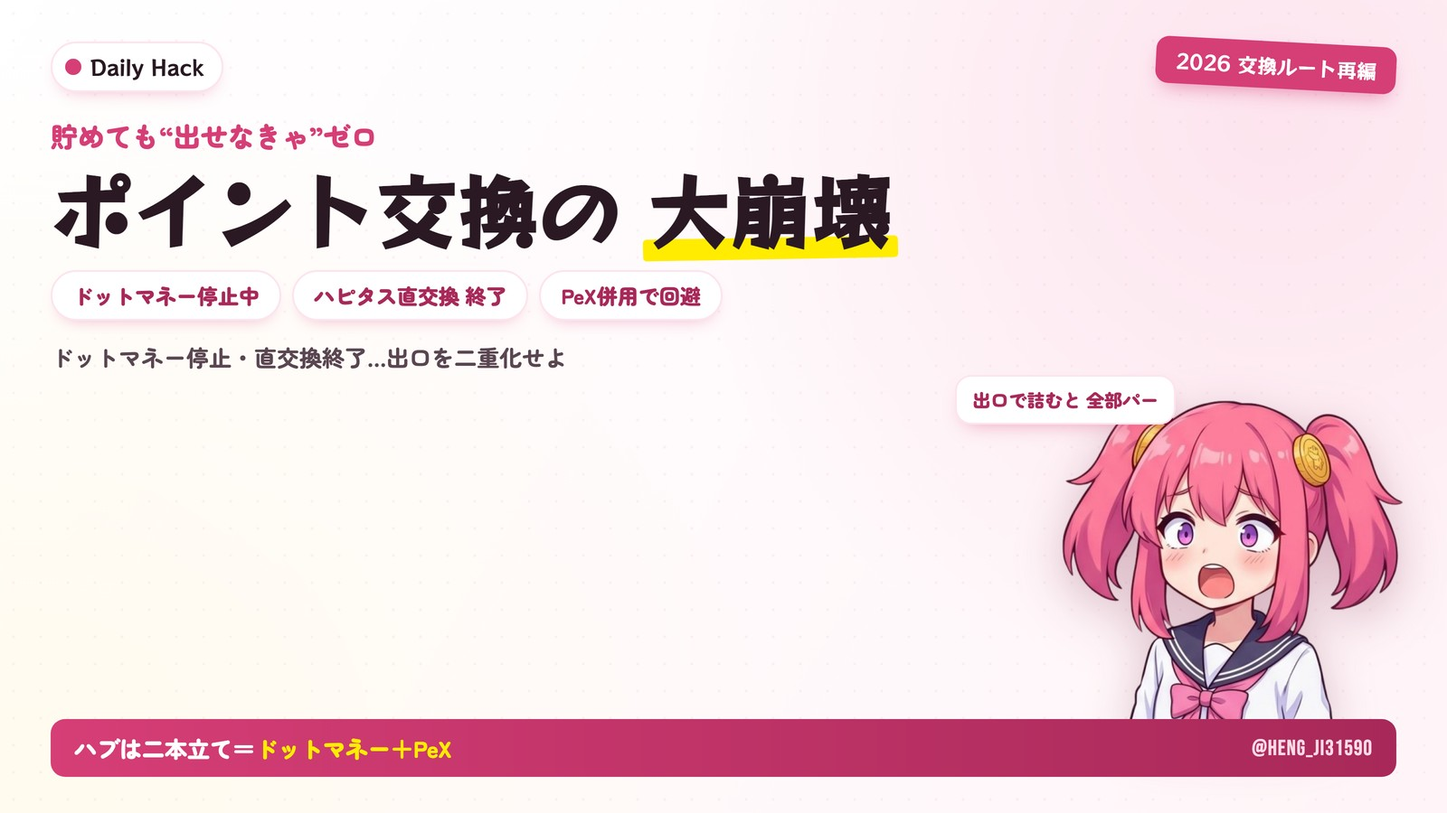
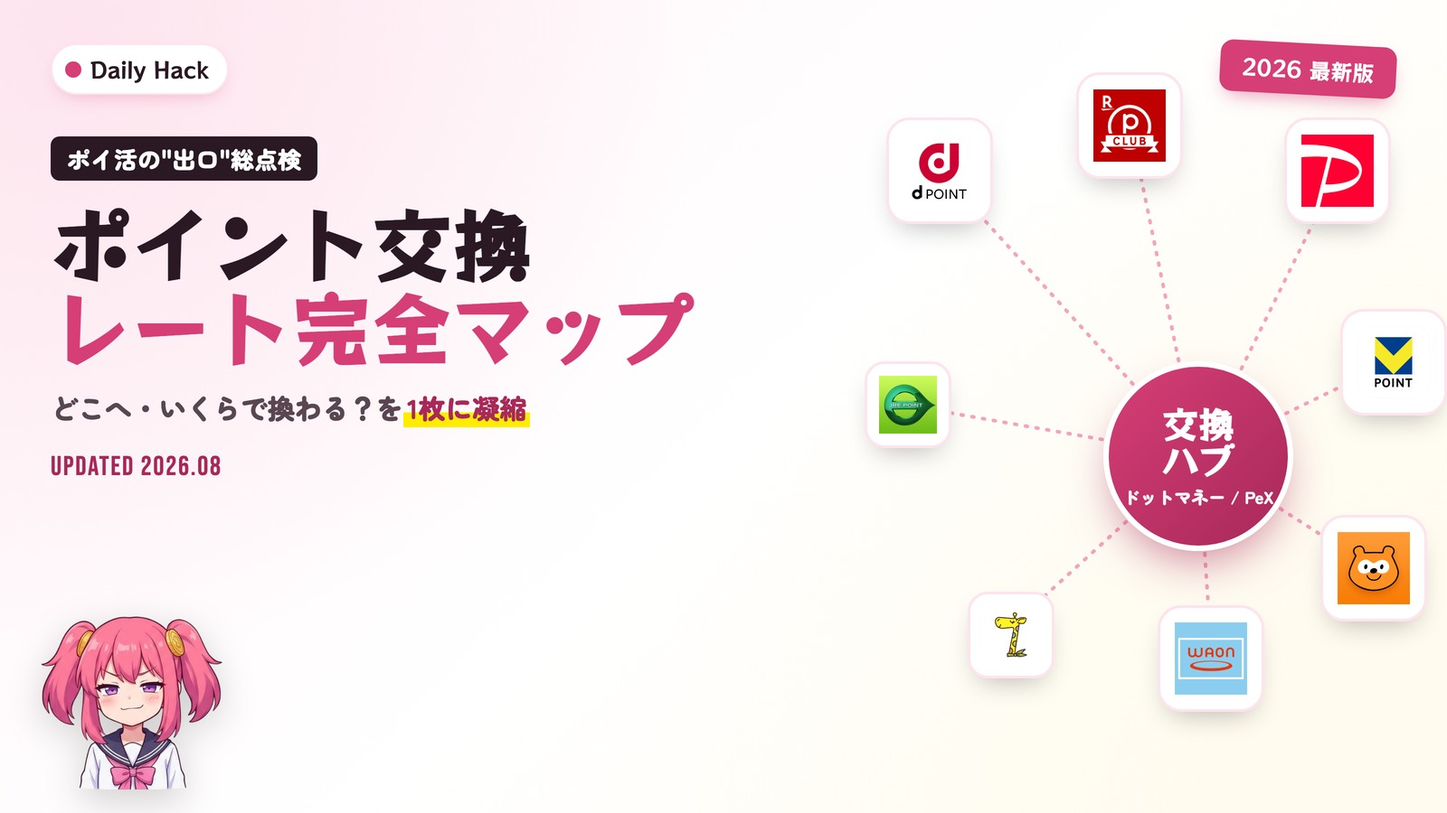
ポイント交換記事を大幅アップデート: レート表3種＋交換ルート図＋ロゴ活用アイキャッチ
- 新アイキャッチ: 主要ポイント実ロゴ8個を交換ハブ中心に放射配置(ネイティブ16:9)
- 新図(route-rate-map): ①貯める→ハブ→出口フロー ②マイル交換レート早見 ③2026年変更タイムライン
- レート表3種を追加: ハブ基準/共通ポイント→マイル/共通ポイント相互交換の可否
- 最新情報に更新: ドットマネー停止継続→2026/8/12再開目処・SMS認証新設、dポイント交換+15%CP等
- 全数値は各公式ベース(ANA/JAL/ドコモ/リクルート/PeX/Gポイント/ドットマネー)・出典明記
- 汎用HTML→画像レンダラ(render-html-image.mjs)を追加

diff --git a/src/content/posts/point-exchange-route-2026.md b/src/content/posts/point-exchange-route-2026.md
@@ -1,29 +1,36 @@
 ---
-title: "ポイント交換ルート大崩壊2026｜ドットマネー停止・直交換終了で“今使える最短ルート”はこう変わった"
-description: "ドットマネーが不正アクセスで停止中（2026年7月上旬復旧見込み）。ハピタス→ドットマネー直交換終了やJQみずほルート終了も重なり、ポイントの出口が2026年に一変した。交換難民にならないための『交換ハブ二本立て』と、今使える最短ルートをアタシが図解する。"
+title: "ポイント交換レート完全マップ2026｜主要ポイント×マイルの交換レートを表と図で総整理【8月最新】"
+description: "主要ポイント×マイルの交換レートを表と図で総整理。ハブの基準、dポイント→JAL50%・東急→ANA75%等のマイルレート、『楽天は他社交換不可』の壁まで。ドットマネーは停止中→8/12再開目処。2026年8月時点・出典つき。"
 publishDate: 2026-07-04
 category: ["howto", "comparisons"]
-tags: ["ポイ活", "ポイント交換", "ドットマネー", "PeX", "モッピー", "ハピタス", "Vポイント", "ポイントサイト"]
+tags: ["ポイ活", "ポイント交換", "交換レート", "ドットマネー", "PeX", "マイル", "dポイント", "ポイントサイト"]
 isPR: true
 draft: false
 featured: true
 relatedReferrals: ["moppy"]
 eyecatchUrl: "/images/point-exchange-route-2026/eyecatch.jpg"
-eyecatchAlt: "2026年に一変したポイント交換ルート — ドットマネー停止と直交換終了で最短ルートを再設計する図"
+eyecatchAlt: "主要ポイントのロゴを交換ハブ中心に配した、ポイント交換レート完全マップ2026のアイキャッチ"
 author: "hacker-ko"
 source_candidate_id: "C060"
 references:
-  - "https://www.itmedia.co.jp/news/articles/2606/17/news123.html"
-  - "https://d-money.jp/"
+  - "https://ameblo.jp/dotmoney/entry-12974161885.html"
+  - "https://www.ana.co.jp/ja/jp/shoppingandlife/point/tukau_rakuten/"
+  - "https://dpoint.docomo.ne.jp/article/2009_07.html"
+  - "https://point.recruit.co.jp/pontaweb/excpoint/pontajal/"
 ---
 
-「貯めたポイント、交換しようとしたら“メンテナンス中”で動かせない……」——今、そういう**交換難民**が大量発生してる。原因は、ポイ活の出口インフラ「**ドットマネー**」が不正アクセスで**全サービス停止中**（2026年6月8日〜、復旧は7月上旬見込み）だから。
+> 📌 **2026年8月2日 大幅更新**：交換レートを表＋図で総整理し直したわ。ドットマネーの復旧見込み（→**8月12日再開目処**）も最新に更新済み。
 
-しかもタチが悪いのは、これが単発事故じゃないってこと。2025年秋以降、**ポイントの“出口”がドミノ的に塞がれてきた**の。今日はこの「交換ルート大崩壊」を時系列で整理して、二度と難民にならないための**出口の組み方**を教えてあげる。貯めるのが上手い人ほど、出口で詰まると全部パーになるからね 😏
+「貯めたポイント、結局どこに・いくらで換わるの？」——ポイ活で一番わかりにくいのが、この**交換レート**なの。しかも各社バラバラで、改悪も頻繁。だから今日は、**主要ポイント×マイルの交換レートを1枚の図と表に総整理**してあげる。さらに、ポイ活の出口インフラ「ドットマネー」が今も停止中（→8/12再開目処）っていう**リアルタイムの事情**も踏まえて、"いま使える最短ルート"の考え方まで通しで解説するわ 😏
+
+<figure class="venn-figure">
+  <img src="/images/point-exchange-route-2026/route-rate-map.jpg" alt="ポイント交換ルート＆レートマップ：貯める(モッピー等)→中継ハブ(ドットマネー1マネー=1円/PeX10P=1円/Gポイント1G=1円)→出口(現金/共通ポイント/マイル)の基本フローと、dポイント→JAL50%・Ponta→JAL50%・楽天→ANA50%・Vポイント→ANA50%・東急→ANA75%のマイル交換レート、2026年の主な変更タイムライン" loading="lazy" />
+  <figcaption>ポイント交換ルート＆レートマップ（2026年8月時点・各公式ベース）。①貯める→ハブ→出口の基本フロー ②共通ポイント→マイルのレート早見 ③2026年の主な動き。※出典明記でのシェア・引用は歓迎です。</figcaption>
+</figure>
 
 <div class="hakkako-says">
   <div class="hakkako-mascot"><img src="/images/expr-09-arms-crossed.png" alt="Daily Hackマスコット" /></div>
-  <div class="hakkako-quote">結論から言うわ。<strong>交換ハブ（中継所）を1つに依存するな。</strong>「ドットマネー」と「PeX」の二本立てを両方使えるようにしておけば、片方が止まってももう片方で逃げられる。出口は“二重化”が正解よ。</div>
+  <div class="hakkako-quote">先に核心を3つ。<strong>①ハブ(中継所)は「1ポイント≒1円」系＝ドットマネー/PeX/Gポイント。1本依存は危険で二本立てが鉄則</strong>。<strong>②マイルは"率"が命——dポイント→JALやVポイント→ANAは50%、東急→ANAは75%と差が大きい</strong>。<strong>③共通ポイント同士は意外と直接交換できない（楽天は他社へ出せない、dポイント⇔Pontaも不可）</strong>。この3点を押さえれば、もう交換で損しないわ。</div>
 </div>
 
 <aside class="related-block">
@@ -32,13 +39,6 @@ references:
     <p class="related-block-title">あわせて読みたい</p>
   </div>
   <ul class="related-block-list">
-    <li><a href="/posts/pointsite-comparison-2026/">
-      <span class="related-block-thumb"><img src="/images/eyecatch/comparisons.jpg" alt="" loading="lazy" /></span>
-      <span class="related-block-body">
-        <span class="related-block-cat">比較</span>
-        <span class="related-block-name">ポイントサイト徹底比較｜モッピー・ハピタス他</span>
-      </span>
-    </a></li>
     <li><a href="/posts/point-service-complete-guide-2026/">
       <span class="related-block-thumb"><img src="/images/eyecatch/comparisons.jpg" alt="" loading="lazy" /></span>
       <span class="related-block-body">
@@ -53,73 +53,31 @@ references:
         <span class="related-block-name">ポイント改悪・改良 年表 2024-2026</span>
       </span>
     </a></li>
+    <li><a href="/posts/rakuten-marathon-guide-2026/">
+      <span class="related-block-thumb"><img src="/images/eyecatch/comparisons.jpg" alt="" loading="lazy" /></span>
+      <span class="related-block-body">
+        <span class="related-block-cat">攻略</span>
+        <span class="related-block-name">楽天お買い物マラソン 完全攻略 2026</span>
+      </span>
+    </a></li>
   </ul>
 </aside>
 
-## 結論: 2025〜2026で「ポイントの出口」はこう崩れた
+## ① 交換ハブの基準レート（1ポイント≒1円系）
 
-まず何が起きたかを時系列で。**貯める話ばかりで、出口の変化を追ってない人が一番危ない。**
+ポイントサイトで貯めたポイントは、たいてい**中継ハブ**を経由して現金・共通ポイント・マイルへ換える。まずはこのハブの「基準」を押さえるのが土台。
 
-| 時期 | 出来事 | 影響 |
-|---|---|---|
-| 2025年10月末 | ハピタス → ドットマネー **直接交換が終了** | 人気の王道ルートが1本消滅 |
-| 2026年1月21日 | JQ CARD 経由のみずほルートが**新規受付終了** | 陸マイラー系の中継が細る |
-| 2026年6月8日〜 | ドットマネーが**不正アクセスで全サービス停止** | 交換ハブそのものがダウン＝出口総詰まり |
-| 2026年7月上旬（見込み） | ドットマネー復旧予定 | ※保有ポイントは保全・消失しないと公式明言 |
+| ハブ | 基準レート | 主な交換先 | 手数料の目安 | 状態(2026/8/2) |
+|---|---|---|---|---|
+| **ドットマネー** | 1マネー＝**1円** | 現金(銀行)・ギフト・共通ポイント・マイル | 現金交換は**手数料無料**が中心（最低1,000マネー〜／主要行） | ⚠**停止中→8/12再開目処**・SMS認証新設 |
+| **PeX** | 10ポイント＝**1円** | 現金・電子マネー・共通ポイント・マイル | 交換先ごと（例:楽天銀行/住信SBI 50円/回）。無料先もあり | ✅ 稼働中 |
+| **Gポイント** | 1G＝**1円** | 現金・共通ポイント・マイル・BIGLOBE充当 | 現金は約10%（対象サービス申込で5%還元） | ✅ 稼働中 |
 
-> ドットマネーは「交換中を含むポイントは社内で保全され消失しない／不正利用の被害は確認されていない」と公表（出典: <a href="https://www.itmedia.co.jp/news/articles/2606/17/news123.html" target="_blank" rel="noopener nofollow">ITmedia NEWS</a>、<a href="https://d-money.jp/" target="_blank" rel="noopener nofollow">ドットマネー公式</a>）。**慌てて何かする必要はない。落ち着いて復旧を待ちつつ、出口を組み直すのが正解。**
+<p class="source-note">出典: <a href="https://ameblo.jp/dotmoney/entry-12974161885.html" target="_blank" rel="noopener nofollow">ドットマネー公式スタッフブログ</a>／<a href="https://pex.jp/introduce" target="_blank" rel="noopener nofollow">PeX公式</a>／<a href="https://www.gpoint.co.jp/pen/charge/" target="_blank" rel="noopener nofollow">Gポイント公式</a>。手数料・最低交換額は交換先やキャンペーンで変動するため、交換直前に各公式で最新をご確認ください。</p>
 
-<div class="section-with-mascot">
-  <div class="mascot-wrap"><img src="/images/expr-06-shock.png" alt="" /></div>
-  <h2>いま「ドットマネー停止中」にやるべきこと・やってはいけないこと</h2>
-</div>
-
-停止のニュースで焦って変な行動を取る人が一番損する。いま取るべき動きはこれだけ。
-
-- ✅ **待てるポイントは、素直に復旧を待つ**。保有分は保全されると公式が明言してる。有効期限が停止中に来るコードは再付与対応の方針。
-- ✅ **急ぎで現金化したいぶんは、ドットマネーを経由しない別ルートに切り替える**（下で解説）。
-- ✅ この機会に **PeX の口座を用意**して、ハブを二本立てにする。
-- ❌ **同じIDの使い回しパスワードを放置しない**。今回は他社流出リスト型の不正アクセスとみられる事案。ポイント系サービスのパスワードは今すぐ個別化しなさい。
-- ❌ 「復旧記念」「補償手続き」を騙る**フィッシングに注意**。公式ドメイン以外は踏まない。
-
-<div class="section-with-mascot">
-  <div class="mascot-wrap"><img src="/images/expr-05-smug.png" alt="" /></div>
-  <h2>出口の二重化: 「ドットマネー」＋「PeX」を両方持て</h2>
-</div>
-
-ポイントサイトで貯めたポイントは、たいてい**中継ハブ（ドットマネー or PeX）を経由**して、現金・共通ポイント・電子マネーへ交換する。ここが1本だと、今回みたいにハブが落ちた瞬間に**全部詰む**。だから両方を用意しておくのが鉄則。
-
-<div class="compare-cards">
-  <article class="compare-card recommended">
-    <span class="compare-card-mascot"><img src="/images/expr-05-smug.png" alt="" /></span>
-    <h3>ドットマネー（Ameba系）</h3>
-    <p class="tagline">交換先が広く手数料無料が多い王道ハブ。今は停止中だが復旧後も主力。</p>
-    <dl>
-      <dt>強み</dt><dd>銀行・共通ポイント・ギフト券に手数料無料で交換しやすい</dd>
-      <dt>弱み</dt><dd>今回のように止まると出口が一気に塞がる</dd>
-      <dt>使い方</dt><dd>復旧後の“メイン出口”。ただし依存しすぎない</dd>
-    </dl>
-  </article>
-  <article class="compare-card">
-    <h3>PeX</h3>
-    <p class="tagline">老舗の交換ハブ。ドットマネーが使えない今の“避難先”。</p>
-    <dl>
-      <dt>強み</dt><dd>対応サイト・交換先が豊富。ドットマネー停止の代替になる</dd>
-      <dt>弱み</dt><dd>一部交換で手数料/レートに注意（都度確認）</dd>
-      <dt>使い方</dt><dd>“予備の出口”として口座を先に作っておく</dd>
-    </dl>
-  </article>
-</div>
-
-ポイントサイト側（モッピー・ハピタス等）は、**この2つのハブどちらにも送れる**ものが多い。だから「貯める側を1〜2サイト」「出すハブを2つ」持っておけば、片方が事故っても資産が凍結されない。
-
-<div class="ref-cta">
-<img src="/images/point-exchange-route-2026/logos/moppy.png" alt="モッピー" loading="lazy">
-<div class="rc-body">
-<h4>基軸ポイントサイトに「モッピー」紹介リンク</h4>
-<p>会員1,400万人超の最大手。銀行・共通ポイント・ギフト券への交換先が広く、<strong>ドットマネー/PeX どちらのハブにも流しやすい</strong>のが強み。出口を二重化する“貯める側”の土台に。<strong>下の紹介リンク経由の新規登録＋条件達成で、“あなた”にも入会ボーナスポイント</strong>が付きます。</p>
-</div>
-<a class="rc-btn" href="https://pc.moppy.jp/entry/invite.php?invite=kMwuA18a" target="_blank" rel="sponsored noopener nofollow">紹介リンクで無料登録 →</a>
+<div class="hakkako-says">
+  <div class="hakkako-mascot"><img src="/images/expr-05-smug.png" alt="Daily Hackマスコット" /></div>
+  <div class="hakkako-quote">ハブは全部「1ポイント≒1円」だけど、<strong>PeXだけ"10ポイント=1円"表記</strong>だから桁を勘違いしないで。そして最大手のドットマネーが今止まってる（→8/12再開目処）のが今回の肝。<strong>ハブは1本に頼らず、ドットマネー＋PeX(orGポイント)の二本立て</strong>にしておけば、片方が事故っても出口を確保できるわ。</div>
 </div>
 
 <!-- a8-banners auto-inserted by banner-fill (slot1-after-1st-h2) -->
@@ -127,52 +85,125 @@ references:
 <div class="a8-banner a8-banner--rectangle"><a href="https://px.a8.net/svt/ejp?a8mat=4B3Y38+33XJA2+1LP8+CALN5" target="_blank" rel="sponsored noopener nofollow"><img src="/images/banners/hapitas-300x250.jpg" alt="高還元率ポイントサイト【ハピタス】　無料会員登録プロモーション" width="300" height="250" loading="lazy"></a></div>
 </div>
 
-## 目的別・今使える最短ルートの考え方
+## ② 共通ポイント → マイルの交換レート
 
-「結局どこに出すのが早い？」を目的別に。**具体レートは改定が多いので、交換直前に必ず各サービスで最新を確認**すること（ここでは“考え方”を置く）。
+陸マイラーが一番気にするのがここ。**同じ1ポイントでも、マイルへの「率」は交換先で大きく違う**。図②のバーの通り、現状の主力ルートを表にするとこう。
 
-- **現金がほしい** → ポイントサイト → ハブ（ドットマネー復旧後 or PeX）→ 銀行口座。振込手数料の有無で実質価値が変わるので、手数料無料の交換先を選ぶ。
-- **共通ポイントに寄せたい（Vポイント/dポイント/PayPay等）** → 各サイトから**直接交換できる先**があるなら、ハブを経由せず直行が一番早くて事故りにくい。モッピー等はdポイント・Vポイント等へ直接交換できる導線がある。
-- **マイルに寄せたい（陸マイラー）** → 中継ルートは改悪・終了が特に激しい領域。**「今その月に開いているルート」を必ず最新情報で確認**してから動く。1本のルートに大量ポイントを貯め込まない（塞がれると詰む）。
+| From → マイル | レート | 交換単位・条件 | 確度 |
+|---|---|---|---|
+| **dポイント → JALマイル** | 1,000P → 500マイル（**50%**） | 1,000P単位・月40,000P上限。増量CPで最大55%等 | 高 |
+| **Ponta → JALマイル** | 2P → 1マイル（**50%**） | 2P単位・JMB×Ponta会員登録が必須 | 高 |
+| **楽天ポイント → ANAマイル** | 2P → 1マイル（**50%**） | 楽天**通常**ポイントのみ（期間限定は不可） | 高 |
+| **Vポイント → ANAマイル** | 500P → 250マイル（**50%**） | 三井住友(ANA)カード会員は最大60%。※基本レートは各公式で要確認 | 中 |
+| **東急ポイント → ANAマイル** | 1,000pt → 750マイル（**75%**） | 対象の東急カード保有が条件 | 中 |
+| （逆）JALマイル → dポイント | 10,000マイル → 10,000P | 10,000マイル単位・年20,000マイル上限 | 高 |
+
+<p class="source-note">出典: <a href="https://www.ana.co.jp/ja/jp/shoppingandlife/point/tukau_rakuten/" target="_blank" rel="noopener nofollow">ANA公式(楽天ポイント→ANAマイル)</a>／<a href="https://dpoint.docomo.ne.jp/article/2009_07.html" target="_blank" rel="noopener nofollow">ドコモ公式(dポイント×JAL)</a>／<a href="https://point.recruit.co.jp/pontaweb/excpoint/pontajal/" target="_blank" rel="noopener nofollow">Ponta公式(→JALマイル)</a>。Vポイント→ANA・東急→ANAは条件つき。マイル交換は改定・増量が多いので交換直前に各公式で確認を。</p>
 
 <div class="hakkako-says">
-  <div class="hakkako-mascot"><img src="/images/expr-01-wave.png" alt="Daily Hackマスコット" /></div>
-  <div class="hakkako-quote">大事なのは「貯めたら、こまめに出す」こと。<strong>ポイントは“持ってる状態”が一番リスク高い</strong>の。改悪・終了・今回みたいな停止——出口はいつ塞がれてもおかしくない。ある程度貯まったら、寝かせずに現金や使う予定のポイントに換えておきなさい。</div>
+  <div class="hakkako-mascot"><img src="/images/expr-04-cheer.png" alt="Daily Hackマスコット" /></div>
+  <div class="hakkako-quote">ポイントは大半が「1P=1円」だけど、<strong>マイルにすると1P=2円以上の価値になることもある</strong>（特典航空券の使い方次第）。だから飛行機に乗る人はマイルが有力な出口。ただし<strong>かつての"メトロポイント黄金ルート(ソラチカ)"や旧ANA東急ルートは2022年3月で終了</strong>して、高レートの裏技はかなり減った。今は上の正攻法ルートを、<strong>増量キャンペーンのタイミングで使うのが賢い</strong>のよ。</div>
 </div>
+
+## ③ 共通ポイント同士は「意外と直接交換できない」
+
+「dポイントをPontaに移したい」みたいなの、実はできないことが多いの。ここが最大の落とし穴。
+
+| 組み合わせ | 直接交換 | メモ |
+|---|---|---|
+| dポイント ⇔ Ponta | ❌ 不可 | 相互交換は2020年9月末で終了。以後は間接ルートのみ |
+| 楽天ポイント → 他社共通ポイント | ❌ 不可 | 楽天の出口はマイル/楽天キャッシュ等に限定（他社へは出せない） |
+| Vポイント / Ponta / dポイント の三者相互 | ❌ 原則不可 | マイルや他社経由の間接ルートが必要 |
+| 各共通ポイント → 現金 | ⚠ ハブ経由 | ポイントサイト→ハブ(ドットマネー/PeX)→銀行、が基本 |
+
+<p class="source-note">出典: <a href="https://www.ana.co.jp/ja/jp/shoppingandlife/point/tukau_rakuten/" target="_blank" rel="noopener nofollow">ANA公式(楽天ポイントの扱い)</a>ほか。WAON POINT・nanaco・JRE POINT等は各経済圏でほぼクローズド設計で、共通ポイント同士の直接交換は限定的（各公式で要確認）。</p>
+
+<div class="hakkako-says">
+  <div class="hakkako-mascot"><img src="/images/expr-06-shock.png" alt="Daily Hackマスコット" /></div>
+  <div class="hakkako-quote">つまり<strong>「貯める前に、出口を決めておく」</strong>のが正解。特に楽天ポイントは他社へ移せないから、楽天で貯めるなら楽天市場・楽天ペイ・楽天キャッシュで使い切る前提。dポイントとPontaを行き来させたい人は、そもそも<strong>片方に寄せて貯める</strong>のが事故らないコツよ。</div>
+</div>
+
+## ④ いま「ドットマネー停止中」に何をすべき？
+
+2026年6月8日の不正アクセスで全停止したドットマネーは、**2026年8月2日時点でまだ停止中**。公式は**8月12日(水)を目処に順次再開**予定で、再開時に**SMS認証を新設**するとしてる。
+
+- ✅ **待てるポイントは素直に復旧を待つ**。交換途中のマネーは口座に返金され再申請可、停止中に失効したぶんも**同額を再付与**すると公式が明言（不正利用は確認されず）。
+- ✅ **急ぎで現金化したいぶんは、ドットマネーを経由しない別ルート**（PeX / Gポイント）に切り替える。
+- ✅ この機会に **PeX か Gポイントの口座を用意**して、ハブを二本立てにしておく。
+- ❌ 使い回しパスワードを放置しない。**ポイント系サービスのパスワードは今すぐ個別化**（今回は他社流出リスト型とみられる事案）。
+- ❌ 「再開記念」「補償手続き」を騙る**フィッシングに注意**。公式ドメイン以外は踏まない。
+
+<p class="source-note">出典: <a href="https://ameblo.jp/dotmoney/entry-12974161885.html" target="_blank" rel="noopener nofollow">ドットマネー公式スタッフブログ（再開スケジュール）</a>／<a href="https://www.itmedia.co.jp/news/articles/2606/17/news123.html" target="_blank" rel="noopener nofollow">ITmedia NEWS</a>。再開日は「目処」のため、8/12前後に公式で最終確認を。</p>
 
 <!-- a8-banners auto-inserted by banner-fill (slot2-middle) -->
 <div class="affiliate-block">
 <div class="a8-banner a8-banner--rectangle"><a href="https://px.a8.net/svt/ejp?a8mat=4B3Y38+N7Y56+3ZZC+HY069" target="_blank" rel="sponsored noopener nofollow"><img src="/images/banners/warau-300x250.jpg" alt="ポイ活ならワラウ【ワラウ】（広告利用ボーナスクリア）" width="300" height="250" loading="lazy"></a></div>
 </div>
 
+## ⑤ 2026年、交換ルートで起きた「主な動き」
+
+出口インフラが立て続けに揺れた1年。**貯める技術より、出口を切らさない設計**が大事になった年よ（図③も参照）。
+
+| 時期 | 出来事 | 区分 |
+|---|---|---|
+| 2025年10月末 | ハピタス → ドットマネー **直接交換が終了** | 終了 |
+| 2026年1月21日 | みずほ(JQ)ルート（ANA向け）**新規受付終了** | 縮小 |
+| 2026年6月8日〜 | ドットマネー **不正アクセスで全サービス停止** | 停止 |
+| 2026年7月1日 | モッピー → JALマイル交換が「30分以内」に高速化 | 改善 |
+| 2026年7月7日 | モッピーの IOST(暗号資産)交換 終了 | 終了 |
+| 2026年7月28日 | dポイントマーケット サービス終了（サポートは8/31まで） | 終了 |
+| 2026年8月1日 | エポスカード：電子マネー/コード決済チャージの付与(0.5%)終了 | 改悪 |
+| 2026年8月1日〜31日 | **dポイント交換で最大15%増量**キャンペーン | 増量 |
+| 2026年8月12日(目処) | ドットマネー再開へ・SMS認証を新設 | 再開 |
+
+<p class="source-note">出典: 各社公式・<a href="https://www.itmedia.co.jp/news/articles/2606/17/news123.html" target="_blank" rel="noopener nofollow">ITmedia</a>ほか。増量キャンペーンは期間・上限が変わるため参加前に各公式で確認を。<a href="/posts/point-kaiaku-timeline-2026/">ポイント改悪・改良 年表 2024-2026</a> もあわせてどうぞ。</p>
+
+## ⑥ 出口の二重化と「基軸サイト」の作り方
+
+貯める側を1〜2サイト、出すハブを2つ——これが事故らない黄金比。ポイントサイト（モッピー・ハピタス等）は**ドットマネー/PeX/Gポイントのどれにも送れる**ものが多いから、ハブを二本立てにしておけば片方が落ちても資産が凍結されない。
+
+<p class="ref-cta-lead">出口を二重化する「貯める側」の土台に、交換先が広く各ハブへ流しやすい最大手を1つ持っておくと安定します。</p>
+
+<div class="ref-cta">
+<img src="/images/point-exchange-route-2026/logos/moppy.png" alt="モッピー" loading="lazy">
+<div class="rc-body">
+<h4>基軸ポイントサイトに「モッピー」紹介リンク</h4>
+<p>会員1,400万人超の最大手。銀行・共通ポイント・ギフト券・マイルへの交換先が広く、<strong>ドットマネー/PeX/Gポイントどのハブにも流しやすい</strong>のが強み。2026年7月からは<strong>JALマイル交換が「30分以内」に高速化</strong>。<strong>下の紹介リンク経由の新規登録＋条件達成で、"あなた"にも入会ボーナスポイント</strong>が付きます（被紹介者特典）。出口を二重化する土台に無料で作っておくのが正解。</p>
+</div>
+<a class="rc-btn" href="https://pc.moppy.jp/entry/invite.php?invite=kMwuA18a" target="_blank" rel="sponsored noopener nofollow">紹介リンクで無料登録 →</a>
+</div>
+
 ## ❓ よくある質問（FAQ）
 
+**Q. 結局いちばんおトクな出口は？**
+A. **飛行機に乗るならマイル**（1P=2円以上の価値になり得る）。乗らないなら**現金 or 使う予定の共通ポイント**が無難。マイルは率が命なので、dポイント→JAL(50%)や東急→ANA(75%)など**高レートのルートを増量キャンペーン時に**使うのがコツ。
+
 **Q. ドットマネーに交換申請中だったポイントは消える？**
-A. 公式は「交換中を含め社内で保全され、消失しない」と明言してる。停止中に期限が来るコードも再付与の方針。**慌てず復旧を待って大丈夫。**
+A. 公式は「交換途中のマネーは口座に返金・再申請可、停止中に失効したぶんも同額を再付与」と明言。**慌てず8/12目処の再開を待って大丈夫。**
 
-**Q. なんで直接交換じゃなく“ハブ”を経由するの？**
-A. 各ポイントサイトが全交換先と個別提携するのは大変だから、ドットマネー/PeXのような中継所にまとめて、そこから多数の交換先へ配る仕組みになってる。効率的な反面、**ハブが落ちると連鎖で止まる**弱点がある。
+**Q. 楽天ポイントを他のポイントに移せる？**
+A. **他社の共通ポイントへは移せない**。楽天の出口はANAマイル(2P=1マイル・通常ポイントのみ)や楽天キャッシュ、楽天市場での利用に限られる。楽天は「貯めたら楽天圏で使う」が基本。
 
-**Q. 今から始めるなら、どのサイトとハブを持てばいい？**
-A. 貯める側は最大手のモッピーを軸に1〜2サイト。出すハブは**ドットマネー＋PeXの二本立て**。これで片方が事故っても出口を確保できる。
+**Q. dポイントとPontaは交換できる？**
+A. **直接の相互交換は不可**（2020年9月末で終了）。どうしても寄せたいなら間接ルートになるが手間とロスが大きいので、**最初からどちらかに寄せて貯める**のが正解。
 
 **Q. 交換レートや手数料は記事の通り？**
-A. ポイント交換は改定が非常に多い領域。**必ず交換する直前に各公式で最新のレート・手数料・所要日数を確認**して。この記事は“ルートの組み方”の指針として使ってね。
+A. ポイント交換は改定・増量が非常に多い領域。数値は2026年8月時点の各公式ベースだけど、**必ず交換する直前に各公式で最新のレート・手数料・所要日数を確認**して。この記事は"全体マップ"として使ってね。
 
 <!-- a8-banners auto-inserted by banner-fill (slot3-before-tail) -->
 <div class="affiliate-block">
 <div class="a8-banner a8-banner--rectangle"><a href="https://px.a8.net/svt/ejp?a8mat=4B43JB+C507KQ+389A+67RK1" target="_blank" rel="sponsored noopener nofollow"><img src="/images/banners/chobirich-300x250.jpg" alt="ちょびリッチ" width="300" height="250" loading="lazy"></a></div>
 </div>
 
-## まとめ — 「出口を二重化して、こまめに出す」
+## まとめ — 「レートを知って、出口を二重化して、こまめに出す」
 
-2026年のポイント交換は、**出口インフラが立て続けに揺れた年**。ハピタス直交換の終了、みずほルート終了、そしてドットマネーの停止。貯める技術より、**出口を切らさない設計**の方がよっぽど大事になった。
+- **ハブは1ポイント≒1円**（ドットマネー/PeX/Gポイント）。**二本立て**で片方が落ちても逃げられる状態に
+- **マイルは率が命**：dポイント→JAL・Vポイント→ANAは50%、東急→ANAは75%。**増量CP時に交換**
+- **共通ポイント同士は直接交換できないことが多い**（楽天は他社不可・dポイント⇔Ponta不可）＝**貯める前に出口を決める**
+- ドットマネー停止分は**保全されるので慌てない**。**8/12再開目処**、この隙に出口を組み直す
 
-- **ハブは二本立て**（ドットマネー＋PeX）。片方が落ちても逃げられる状態に
-- **直接交換できる先は直行**（Vポイント/dポイント等）でハブ依存を減らす
-- **貯めたらこまめに出す**。ポイントは持ってる時間が長いほどリスクが高い
-- ドットマネー停止分は**保全されるので慌てない**。この隙に出口を組み直す
+レートと出口さえ押さえれば、多少の改悪でもう慌てない。貯める人こそ、**レート表と出口設計**から始めなさい 😏
 
-出口さえ切らさなければ、多少の改悪ではもう慌てない。貯める人こそ、出口から設計しなさい 😏
-
-> 関連 → [ポイントサイト徹底比較 2026](/posts/pointsite-comparison-2026/) ／ [ポイントサービス徹底分析 2026](/posts/point-service-complete-guide-2026/) ／ [ポイント改悪・改良 年表 2024-2026](/posts/point-kaiaku-timeline-2026/)
+> 関連 → [ポイントサービス徹底分析 2026](/posts/point-service-complete-guide-2026/) ／ [ポイント改悪・改良 年表 2024-2026](/posts/point-kaiaku-timeline-2026/) ／ [楽天お買い物マラソン 完全攻略 2026](/posts/rakuten-marathon-guide-2026/)
+>
+> データ出典：ドットマネー/PeX/Gポイント/ANA/JAL/ドコモ/リクルート各公式・ITmediaほか（2026年8月2日時点）。交換レート・手数料・キャンペーンは改定が多いため、交換前に必ず各公式で最新をご確認ください。本記事はPR（アフィリエイト）を含みます。
